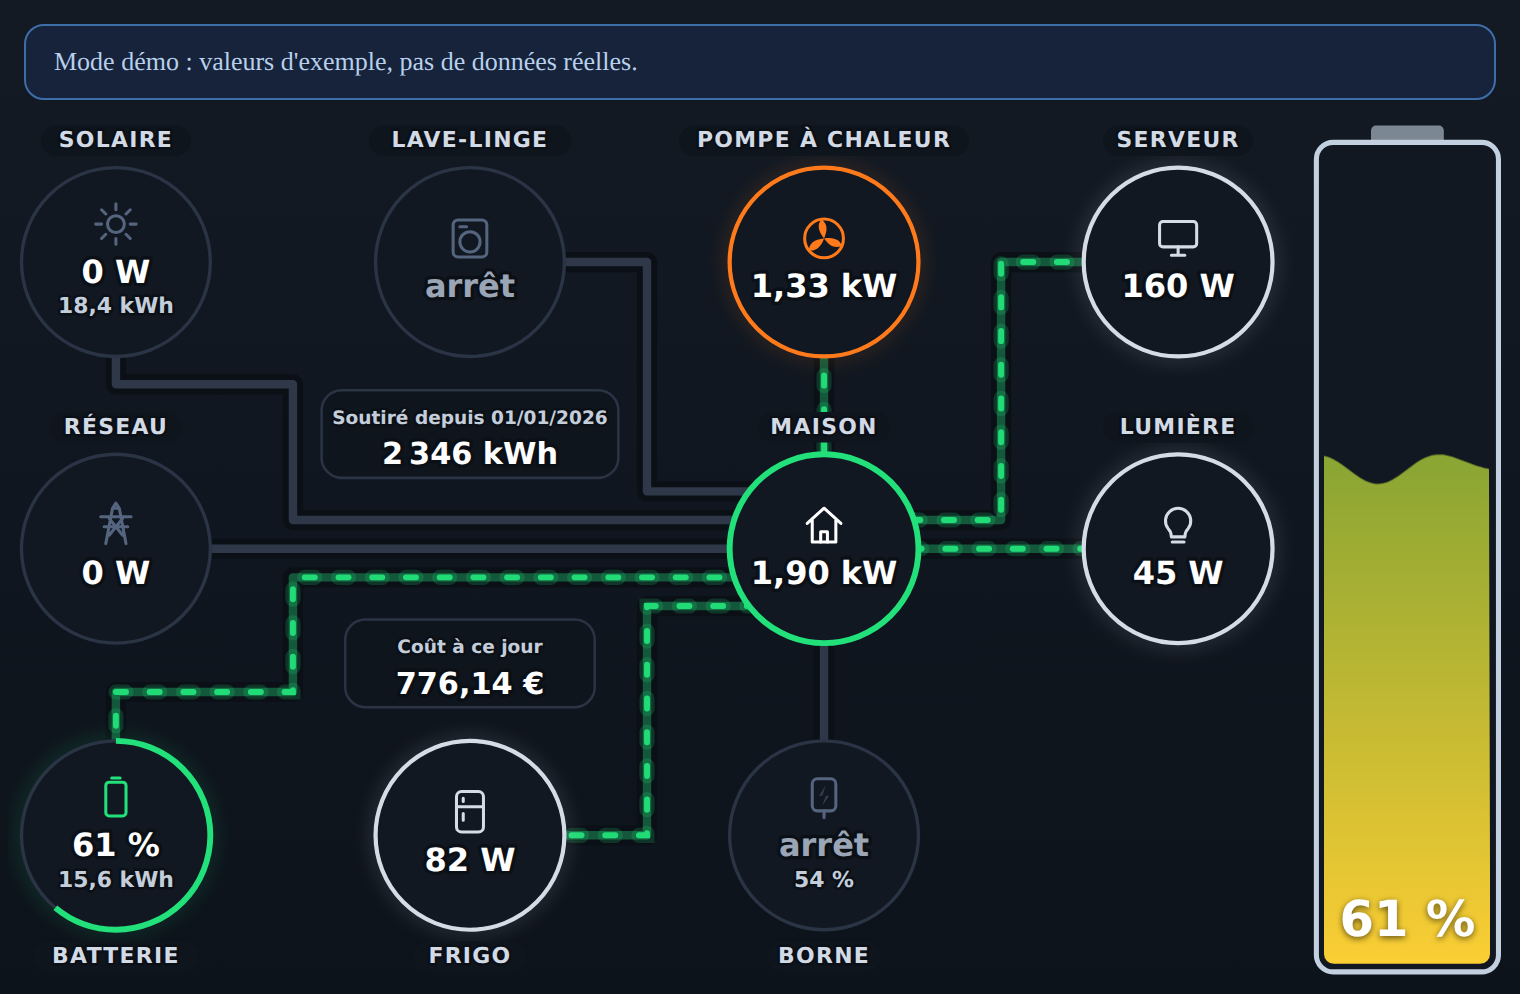
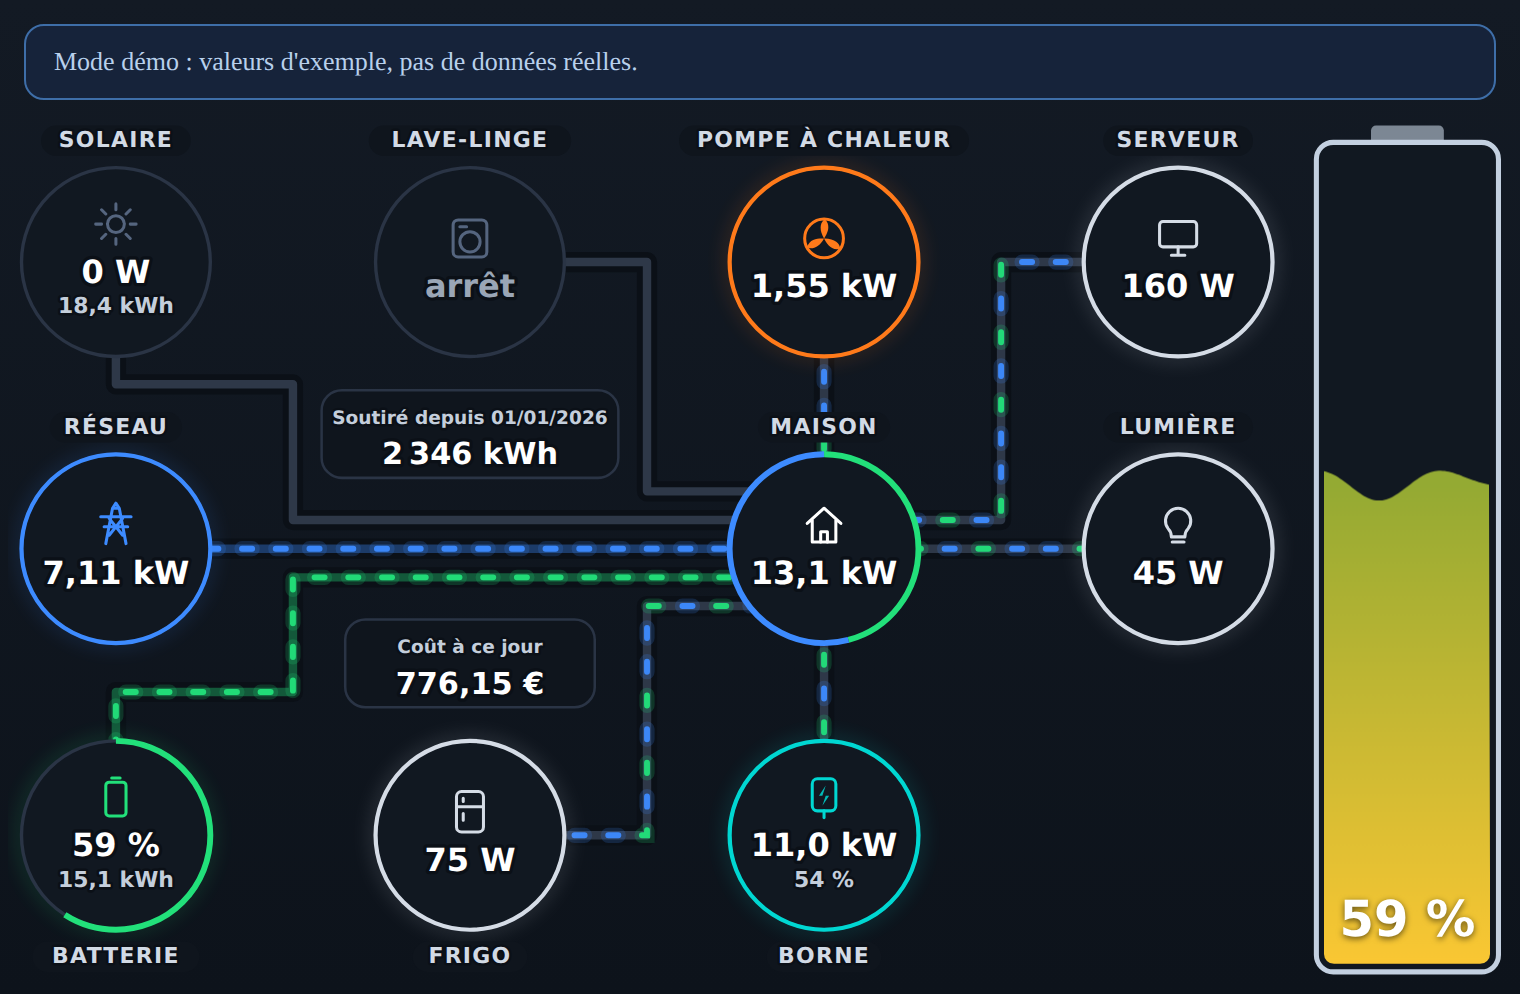
v1.3.3

diff --git a/dist/energy-flow-card-by-lutarym.js b/dist/energy-flow-card-by-lutarym.js
@@ -18,7 +18,7 @@
  * along with this program. If not, see <https://www.gnu.org/licenses/>.
  */
 
-const CARD_VERSION = "1.3.2";
+const CARD_VERSION = "1.3.3";
 const CARD_TAG = "energy-flow-card-by-lutarym";
 const EDITOR_TAG = "energy-flow-card-by-lutarym-editor";
 
@@ -1274,6 +1274,8 @@ class LutarymEnergyFlowCard extends HTMLElement {
         <path class="pipe-shell" d="${pfad}"/>
         <path class="pipe" id="pipe-${id}" d="${pfad}"/>
         <path class="flow-glow" id="fg-${id}" d="${pfad}"/>
+        <path class="flow-glow" id="fg2-${id}" d="${pfad}"/>
+        <path class="flow-glow" id="fg3-${id}" d="${pfad}"/>
         <path class="flow" id="f-${id}" d="${pfad}"/>
         <path class="flow" id="f2-${id}" d="${pfad}"/>
         <path class="flow" id="f3-${id}" d="${pfad}"/>
@@ -1562,42 +1564,54 @@ class LutarymEnergyFlowCard extends HTMLElement {
     const farbe = mix.haupt || NEUTRAL;
     const aktiv = w !== null && w !== undefined && w > (Number(c.min_flow) || 0);
     const spuren = [this._el(`f-${id}`), this._el(`f2-${id}`), this._el(`f3-${id}`)];
-    const fg = this._el(`fg-${id}`);
+    // Jede Strichspur hat ihren eigenen Schein in ihrer Farbe. So bleibt
+    // auch ein kleiner Anteil kraeftig und wird nicht von der Hauptfarbe
+    // ueberstrahlt.
+    const scheine = [this._el(`fg-${id}`), this._el(`fg2-${id}`), this._el(`fg3-${id}`)];
     const rohr = this._el(`pipe-${id}`);
     if (!spuren[0]) return;
-    if (fg) fg.classList.toggle("is-on", aktiv);
-    if (rohr) {
-      rohr.style.stroke = aktiv ? farbe : "";
-      rohr.classList.toggle("is-on", aktiv);
-    }
     const dash = this._stil().dash;
     const teile = (mix.teile || []).slice(0, 3);
     const gemischt = aktiv && teile.length > 1;
+    if (rohr) {
+      // Bei gemischtem Strom bleibt das Rohr neutral, die Farben zeigen
+      // allein die Striche.
+      rohr.style.stroke = aktiv && !gemischt ? farbe : "";
+      rohr.classList.toggle("is-on", aktiv && !gemischt);
+    }
     const folge = gemischt ? strichFolge(teile) : null;
     const laufend = [];
     spuren.forEach((el, k) => {
+      const schein = scheine[k];
       if (!el) return;
       let an = aktiv && (k === 0 || (gemischt && k < teile.length));
       let basis = 0;
+      let muster = "";
       if (an && gemischt) {
         const m = spurMuster(folge, k, dash);
         if (!m.muster) an = false;
         else {
-          el.style.strokeDasharray = m.muster;
+          muster = m.muster;
           basis = m.basis;
         }
-      } else {
-        el.style.strokeDasharray = "";
       }
+      el.style.strokeDasharray = muster;
       el.classList.toggle("is-on", an);
+      if (schein) {
+        schein.style.strokeDasharray = muster;
+        schein.classList.toggle("is-on", an);
+      }
       if (!an) return;
-      el.style.stroke = gemischt ? teile[k].farbe : farbe;
-      laufend.push({ el, basis });
-      if (!c.animate) el.setAttribute("stroke-dashoffset", basis.toFixed(1));
+      const spurFarbe = gemischt ? teile[k].farbe : farbe;
+      el.style.stroke = spurFarbe;
+      if (schein) schein.style.stroke = spurFarbe;
+      laufend.push({ el, schein, basis });
+      if (!c.animate) {
+        el.setAttribute("stroke-dashoffset", basis.toFixed(1));
+        if (schein) schein.setAttribute("stroke-dashoffset", basis.toFixed(1));
+      }
     });
     if (aktiv) {
-      if (fg) fg.style.stroke = farbe;
-      if (!c.animate && fg) fg.setAttribute("stroke-dashoffset", "0");
       const p = anteil(w, c.max_power);
       const alt = this._fluss.get(id);
       this._fluss.set(id, {
@@ -1605,7 +1619,6 @@ class LutarymEnergyFlowCard extends HTMLElement {
         versatz: alt ? alt.versatz : 0,
         rueck: Boolean(rueck),
         spuren: laufend,
-        glow: fg,
       });
     } else {
       this._fluss.delete(id);
@@ -2041,17 +2054,20 @@ class LutarymEnergyFlowCard extends HTMLElement {
     const spanne = periode * MISCH_STRICHE * 100;
     this._fluss.forEach((s) => {
       s.versatz = (s.versatz + (s.rueck ? 1 : -1) * s.tempo * dt) % spanne;
-      if (s.glow) s.glow.setAttribute("stroke-dashoffset", s.versatz.toFixed(1));
-      s.spuren.forEach((sp) => sp.el.setAttribute("stroke-dashoffset", (s.versatz + sp.basis).toFixed(1)));
+      s.spuren.forEach((sp) => {
+        const wert = (s.versatz + sp.basis).toFixed(1);
+        sp.el.setAttribute("stroke-dashoffset", wert);
+        if (sp.schein) sp.schein.setAttribute("stroke-dashoffset", wert);
+      });
     });
 
     // Zusatzeffekte einzelner Stile auf den laufenden Leitungen.
     if (stil.atmen || stil.zucken) {
       this._fluss.forEach((s, id) => {
-        const glow = s.glow;
-        if (stil.atmen && glow) {
+        if (stil.atmen) {
           const welle = 0.5 - 0.5 * Math.cos(((zeit % 1.6) / 1.6) * Math.PI * 2);
-          glow.style.opacity = (0.08 + stil.schein[1] * 1.6 * welle).toFixed(2);
+          const wert = (0.08 + stil.schein[1] * 1.6 * welle).toFixed(2);
+          s.spuren.forEach((sp) => { if (sp.schein) sp.schein.style.opacity = wert; });
         }
         if (stil.zucken) {
           // Pseudozufall aus Zeit und Leitung, damit nicht alle gleich flackern.

diff --git a/CHANGELOG.md b/CHANGELOG.md
@@ -4,6 +4,10 @@
 
 ## English
 
+### v1.3.3
+
+- Fix: on lines with mixed power every colour has its own glow, small shares no longer look grey
+
 ### v1.3.2
 
 - Fix: name fields in the editor show the name that is drawn. A cleared field really removes the label, for example HOME
@@ -45,6 +49,10 @@ First release.
 - Languages: English, German, French and Japanese
 
 ## Deutsch
+
+### v1.3.3
+
+- Behoben: Auf Leitungen mit gemischtem Strom hat jede Farbe ihren eigenen Schein, kleine Anteile wirken nicht mehr grau
 
 ### v1.3.2
 
@@ -88,6 +96,10 @@ Erste Veröffentlichung.
 
 ## Français
 
+### v1.3.3
+
+- Corrigé : sur les lignes au courant mixte, chaque couleur a sa propre lueur, les petites parts ne paraissent plus grises
+
 ### v1.3.2
 
 - Corrigé : les champs de nom de l'éditeur montrent le nom affiché. Un champ vidé retire vraiment l'étiquette, par exemple MAISON
@@ -129,6 +141,10 @@ Première version.
 - Langues : anglais, allemand, français et japonais
 
 ## 日本語
+
+### v1.3.3
+
+- 修正：複数の電源が混在するラインでは各色に専用の光彩を付け、小さな割合が灰色に見えなくなりました
 
 ### v1.3.2
 

diff --git a/README.md b/README.md
@@ -1,6 +1,6 @@
 # Energy Flow Card by Lutarym
 
-Version 1.3.2
+Version 1.3.3
 
 **English** · [Deutsch](README.de.md) · [Français](README.fr.md) · [日本語](README.ja.md)
 

diff --git a/README.de.md b/README.de.md
@@ -1,6 +1,6 @@
 # Energy Flow Card by Lutarym
 
-Version 1.3.2
+Version 1.3.3
 
 [English](README.md) · **Deutsch** · [Français](README.fr.md) · [日本語](README.ja.md)
 

diff --git a/README.fr.md b/README.fr.md
@@ -1,6 +1,6 @@
 # Energy Flow Card by Lutarym
 
-Version 1.3.2
+Version 1.3.3
 
 [English](README.md) · [Deutsch](README.de.md) · **Français** · [日本語](README.ja.md)
 

diff --git a/README.ja.md b/README.ja.md
@@ -1,6 +1,6 @@
 # Energy Flow Card by Lutarym
 
-Version 1.3.2
+Version 1.3.3
 
 [English](README.md) · [Deutsch](README.de.md) · [Français](README.fr.md) · **日本語**
 
